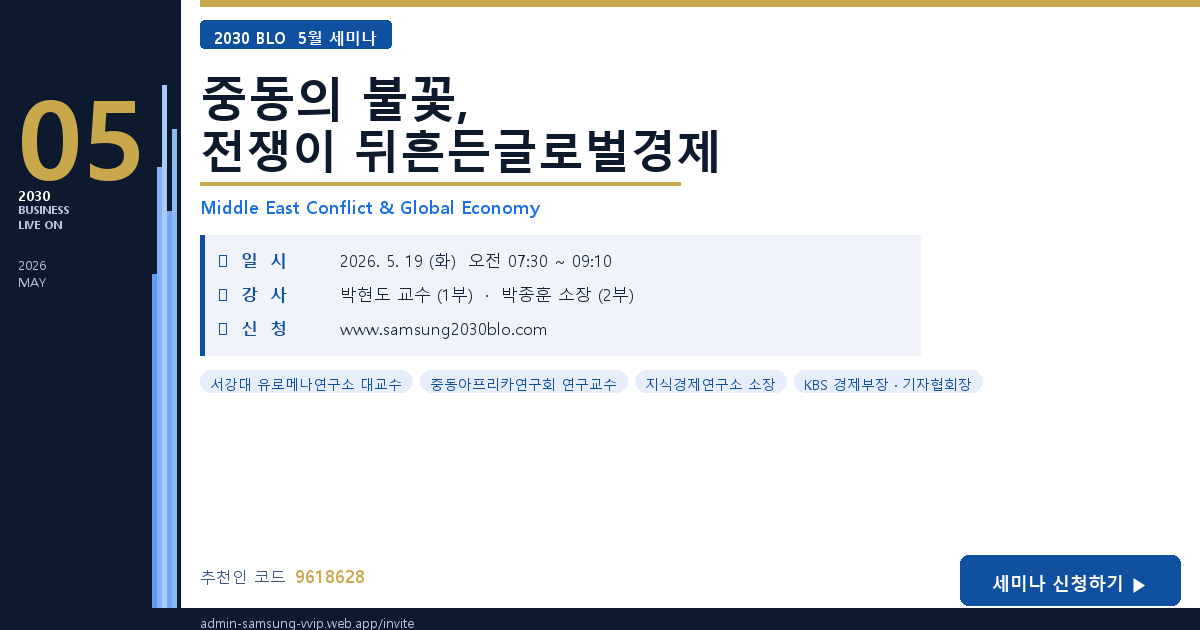
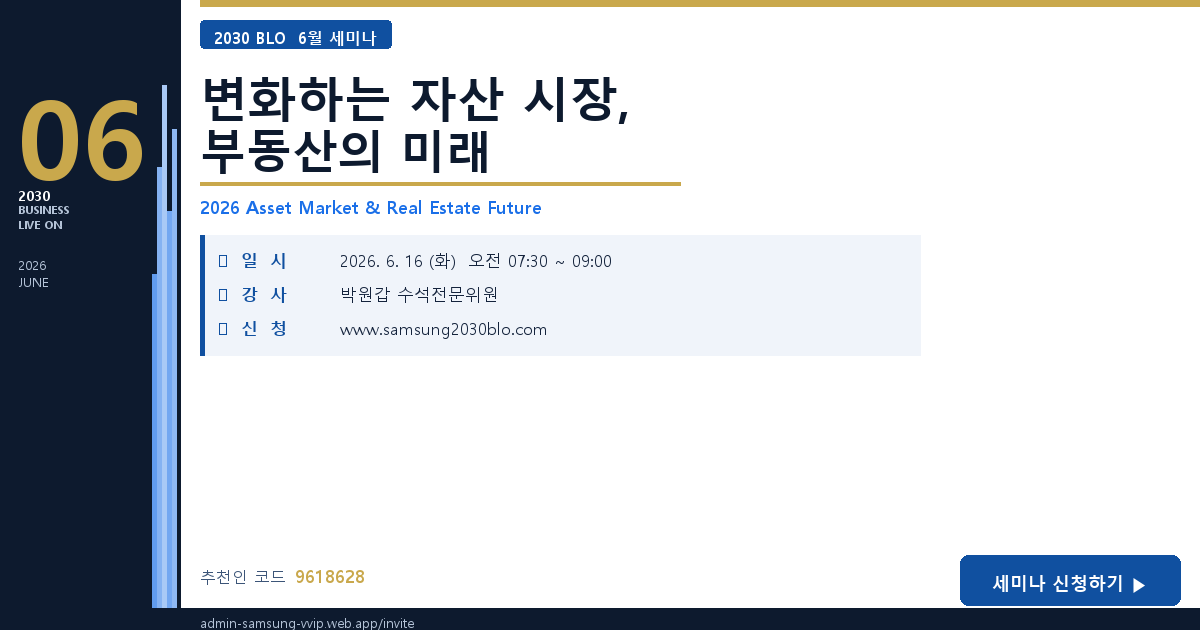
feat: 6월 OG 이미지 재생성 및 버전 업데이트
- og-kakao-wide.png, og-kakao-vertical.png: 06월/변화하는 자산 시장 반영
- invite.html og:image v=10 → v=12 (카카오 캐시 갱신)

diff --git a/invite.html b/invite.html
@@ -7,7 +7,7 @@
 <meta property="og:title" content="BLO 조찬세미나 | 세미나 신청하기 · 추천인코드 9618628">
 <meta property="og:description" content="변화하는 자산 시장, 부동산의 미래 | 6/16(화) 오전 7:30 | 박원갑 수석전문위원 | 신청: www.samsung2030blo.com">
 <meta property="og:url" content="https://admin-samsung-vvip.web.app/invite?m=2026-06">
-<meta property="og:image" content="https://admin-samsung-vvip.web.app/assets/og-kakao-wide.png?v=10">
+<meta property="og:image" content="https://admin-samsung-vvip.web.app/assets/og-kakao-wide.png?v=12">
 <meta property="og:image:width" content="1024">
 <meta property="og:image:height" content="576">
 <meta name="twitter:card" content="summary_large_image">
